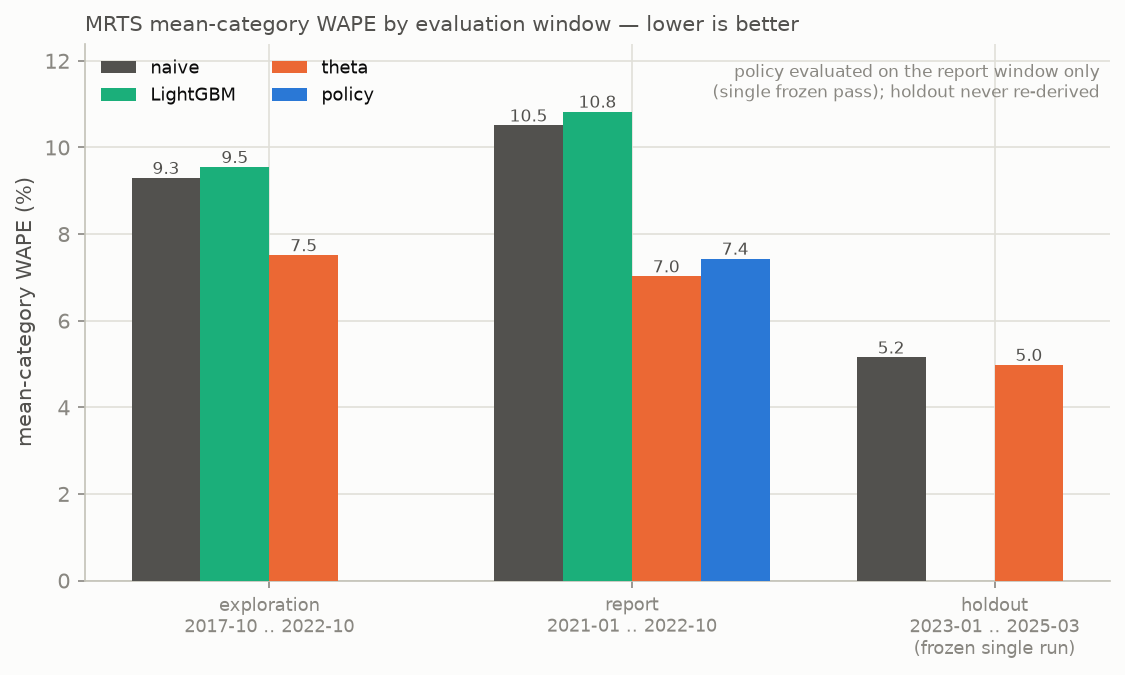
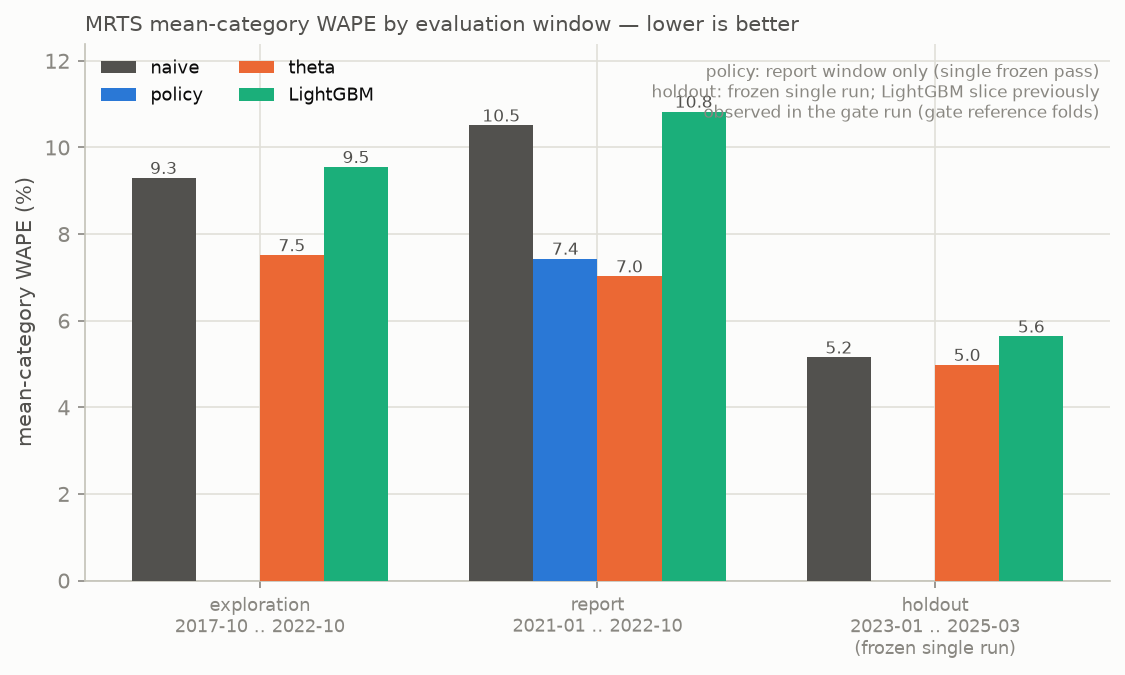
Three-model holdout table: predeclared reaggregation, reported
Stored gate-reference folds re-aggregated on the holdout origins after
a committed predeclaration (no refit, no tuning, rule unchanged):
LightGBM 5.64%, -0.48pp exact (the earlier -0.49pp came from
subtracting rounded percentages), 5/11 categories improved. Naive and
theta stay verbatim from the frozen single run; the verification gate
reproduces both before releasing anything.

- FINDINGS section 3 table now carries sources and category counts
- window summary gains the holdout LightGBM row (10 rows, source-
  labeled "previously observed"); figure annotation states the provenance
- theta's 7/11 and naive's numbers reproduce exactly

diff --git a/scripts/window_summary.py b/scripts/window_summary.py
@@ -6,8 +6,12 @@ freeze into evidence — nothing is recomputed here:
 
 - exploration / report numbers come from ``results/category_win_matrix.json``
   (itself derived from the frozen fold CSVs, exploration origins only);
-- holdout numbers are copied verbatim from ``results/holdout_theta.json``
-  (the single predeclared holdout run — holdout folds are NOT re-read);
+- holdout naive / theta numbers are copied verbatim from
+  ``results/holdout_theta.json`` (the single predeclared holdout run —
+  holdout folds are NOT re-read);
+- the holdout LightGBM row comes from ``results/holdout_three_model.json``
+  (reporting-only reaggregation of the stored gate-reference folds,
+  predeclared 2026-11-10; previously observed, not an untouched result);
 - policy numbers come from ``results/policy_report.json`` (the single frozen
   REPORT pass).
 """
@@ -96,6 +100,14 @@ def main() -> None:
         holdout["comparison"]["mean_category_wape_delta_pp"] > 0,
         int(holdout["comparison"]["improved_series_count"]),
         "results/holdout_theta.json (frozen single run)")
+    three_model = _load_json("results/holdout_three_model.json")
+    lgbm_row = next(r for r in three_model["rows"]
+                    if r["model_name"] == "global_lightgbm")
+    add("holdout_2023_2025", "global_lightgbm",
+        lgbm_row["mean_category_wape"],
+        lgbm_row["mean_category_wape"] < holdout["naive"]["mean_category_wape"],
+        int(lgbm_row["categories_beating_naive"]),
+        "results/holdout_three_model.json (gate reference folds; previously observed)")
 
     # Policy: the single frozen REPORT pass only.
     sec = policy["secondary_mean_category_wape"]
@@ -108,11 +120,14 @@ def main() -> None:
         "provenance": common.provenance({
             "purpose": (
                 "window-scoped MRTS research summary for the platform evidence layer; "
-                "no holdout fold recomputed — holdout numbers copied from the frozen run"
+                "no holdout fold recomputed — naive/theta copied from the frozen run, "
+                "holdout LightGBM re-aggregated from stored gate-reference folds under "
+                "the predeclared reporting-only protocol"
             ),
             "source_artifacts": [
                 "results/category_win_matrix.json",
                 "results/holdout_theta.json",
+                "results/holdout_three_model.json",
                 "results/policy_report.json",
             ],
             "satellite_repository": "https://github.com/oleeveeuh/retailPRED-satellite",

diff --git a/scripts/research_figures.py b/scripts/research_figures.py
@@ -178,8 +178,9 @@ def research_windows(summary) -> None:
     ax.set_title("MRTS mean-category WAPE by evaluation window — lower is better",
                  fontsize=10, color=INK_2, loc="left")
     ax.legend(loc="upper left", fontsize=8.5, frameon=False, ncols=2)
-    ax.text(0.99, 0.965, "policy evaluated on the report window only\n"
-            "(single frozen pass); holdout never re-derived",
+    ax.text(0.99, 0.965, "policy: report window only (single frozen pass)\n"
+            "holdout: frozen single run; LightGBM slice previously\n"
+            "observed in the gate run (gate reference folds)",
             transform=ax.transAxes, ha="right", va="top", fontsize=8, color=MUTED)
     fig.tight_layout()
     fig.savefig(FIGURES / "research_windows.png", bbox_inches="tight")

diff --git a/scripts/holdout_reaggregation.py b/scripts/holdout_reaggregation.py
@@ -61,7 +61,7 @@ def _sha256(path: Path) -> str:
 
 def main() -> None:
     holdout_run = json.loads(HOLDOUT_RUN.read_text())
-    origins = holdout_run["provenance"]["holdout_origins"]
+    origins = holdout_run["holdout_origins"]
     folds = pd.read_csv(FOLDS)
     sub = folds[folds["forecast_origin"].isin(origins)]
     if sub.groupby("model_name").size().to_dict() != {

diff --git a/FINDINGS.md b/FINDINGS.md
@@ -85,11 +85,23 @@ The selection rule was predeclared before the holdout existed: highest
 report-window mean-category WAPE delta vs naive → **theta method**. The
 single holdout run (identical protocol, 2023-01..2025-03 origins):
 
-| Model | Holdout mean-category WAPE | Δ vs naive |
-|---|---:|---:|
-| seasonal naive | 5.15% | — |
-| **theta method** | **4.98%** | **+0.17pp (7/11 improved)** |
-| global LightGBM (frozen gate slice) | 5.64% | −0.49pp |
+| Model | Holdout mean-category WAPE | Δ vs naive | Categories improved | Source |
+|---|---:|---:|---:|---|
+| seasonal naive | 5.15% | — | — | frozen single run |
+| **theta method** | **4.98%** | **+0.17pp** | **7/11** | frozen single run |
+| global LightGBM (gate slice) | 5.64% | −0.48pp | 5/11 | gate reference folds (previously observed) |
+
+Note (2026-11-10, predeclared before recalculation —
+`scripts/holdout_reaggregation.py`, `results/holdout_three_model.json`): the
+LightGBM line re-aggregates the stored gate-reference folds on the holdout
+origins — no refit, no new prediction, promotion rule unchanged, and the
+result stays labeled as previously observed, not an untouched holdout result.
+It exists to answer the deployment question ("which of the three should we
+choose?") beside the predeclared theta-vs-naive verdict above; nothing here
+feeds back into any model or rule. The earlier −0.49pp came from subtracting
+rounded percentages; the exact delta is −0.48pp. The verification gate
+reproduces the frozen run's naive numbers exactly and the recorded 5.64%
+slice; any discrepancy would have stopped this table.
 
 Against the gate criteria: criterion 1 (mean improves) passes; criterion 2
 (≥10/11 categories) **fails at 7/11**; criterion 3 (regressions within 2pp)
@@ -116,7 +128,7 @@ category criterion fails decisively.
 2. **Seasonally adjusted monthly national aggregates are close to their own
    seasonal naive in calm regimes.** With volatility low and the level nearly
    a trendless drift, the 12-month-old value is a strong predictor; every
-   learned/variance-carrying method pays a premium (LightGBM −0.49pp, theta
+   learned/variance-carrying method pays a premium (LightGBM −0.48pp, theta
    ±0.2pp on the holdout).
 3. **The only real edges are regime-conditional.** Both challengers beat
    naive during disruption (LightGBM +2.64pp, theta via trend at h≤3) and
